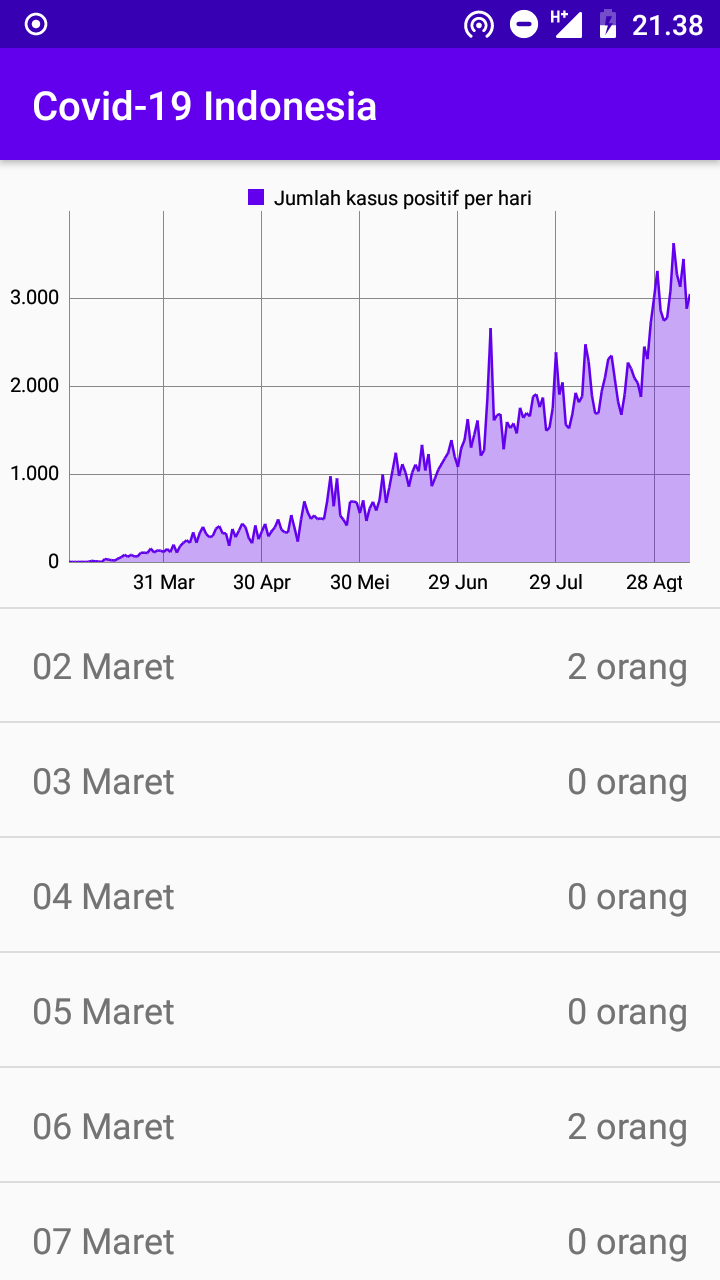
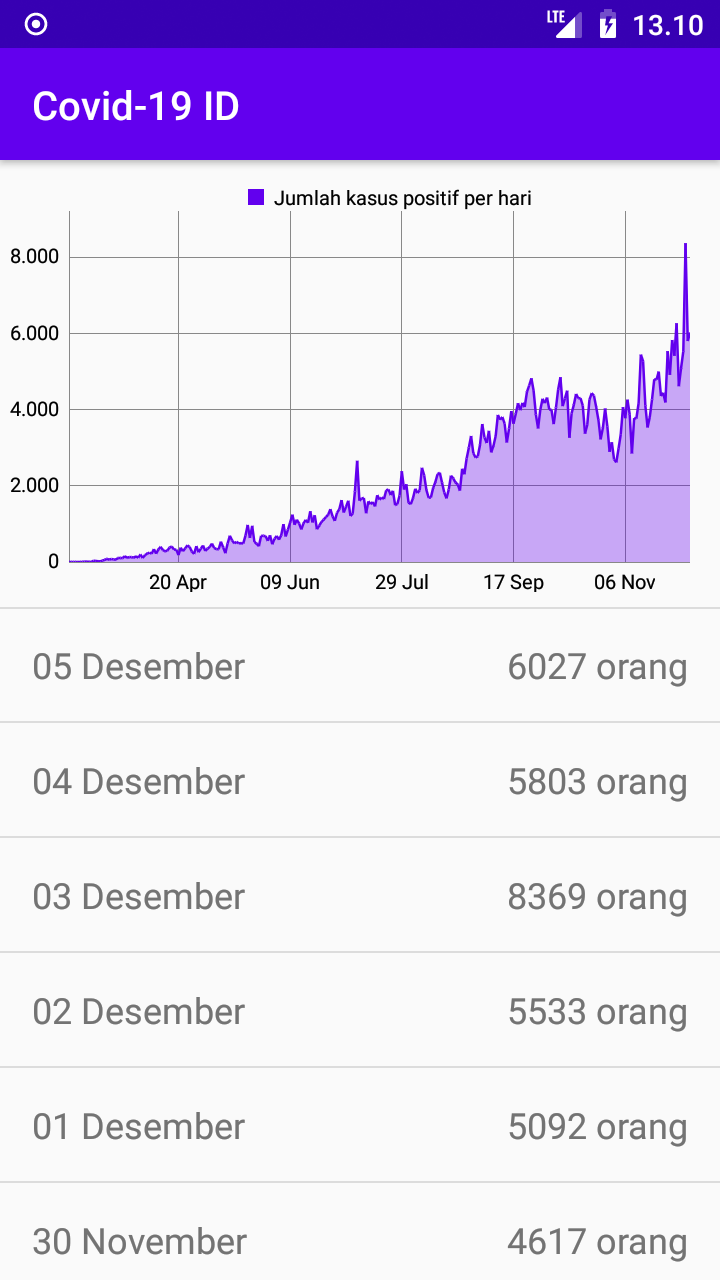
Update readme

diff --git a/README.md b/README.md
@@ -1,8 +1,10 @@
-# Covid-19 Indonesia
+# Covid-19 ID
 
-Aplikasi Android sederhana yang menampilkan tren kasus positif Covid-19 di Indonesia. Data diambil dari API Gugus Tugas Percepatan Penanganan Covid-19. Screenshot di bawah adalah tren dari 2 Maret - 8 September 2020. Semoga pandemi ini segera berlalu.
+Aplikasi Android yang menampilkan tren kasus positif Covid-19 di Indonesia. Data diambil dari API Gugus Tugas Percepatan Penanganan Covid-19. Screenshot di bawah adalah tren dari 2 Maret - 5 Desember 2020. Semoga pandemi ini segera berlalu.
 
-<img src="screenshots/main.png" width="250">
+Tampilan Utama                              | Widget Aplikasi
+--------------------------------------------|----------------------------------------------
+<img src="screenshots/main.png" width="250">|<img src="screenshots/widget.png" width="250">
 
 Aplikasi ini menggunakan beberapa library, diantaranya:
 - Retrofit, untuk request data ke server
